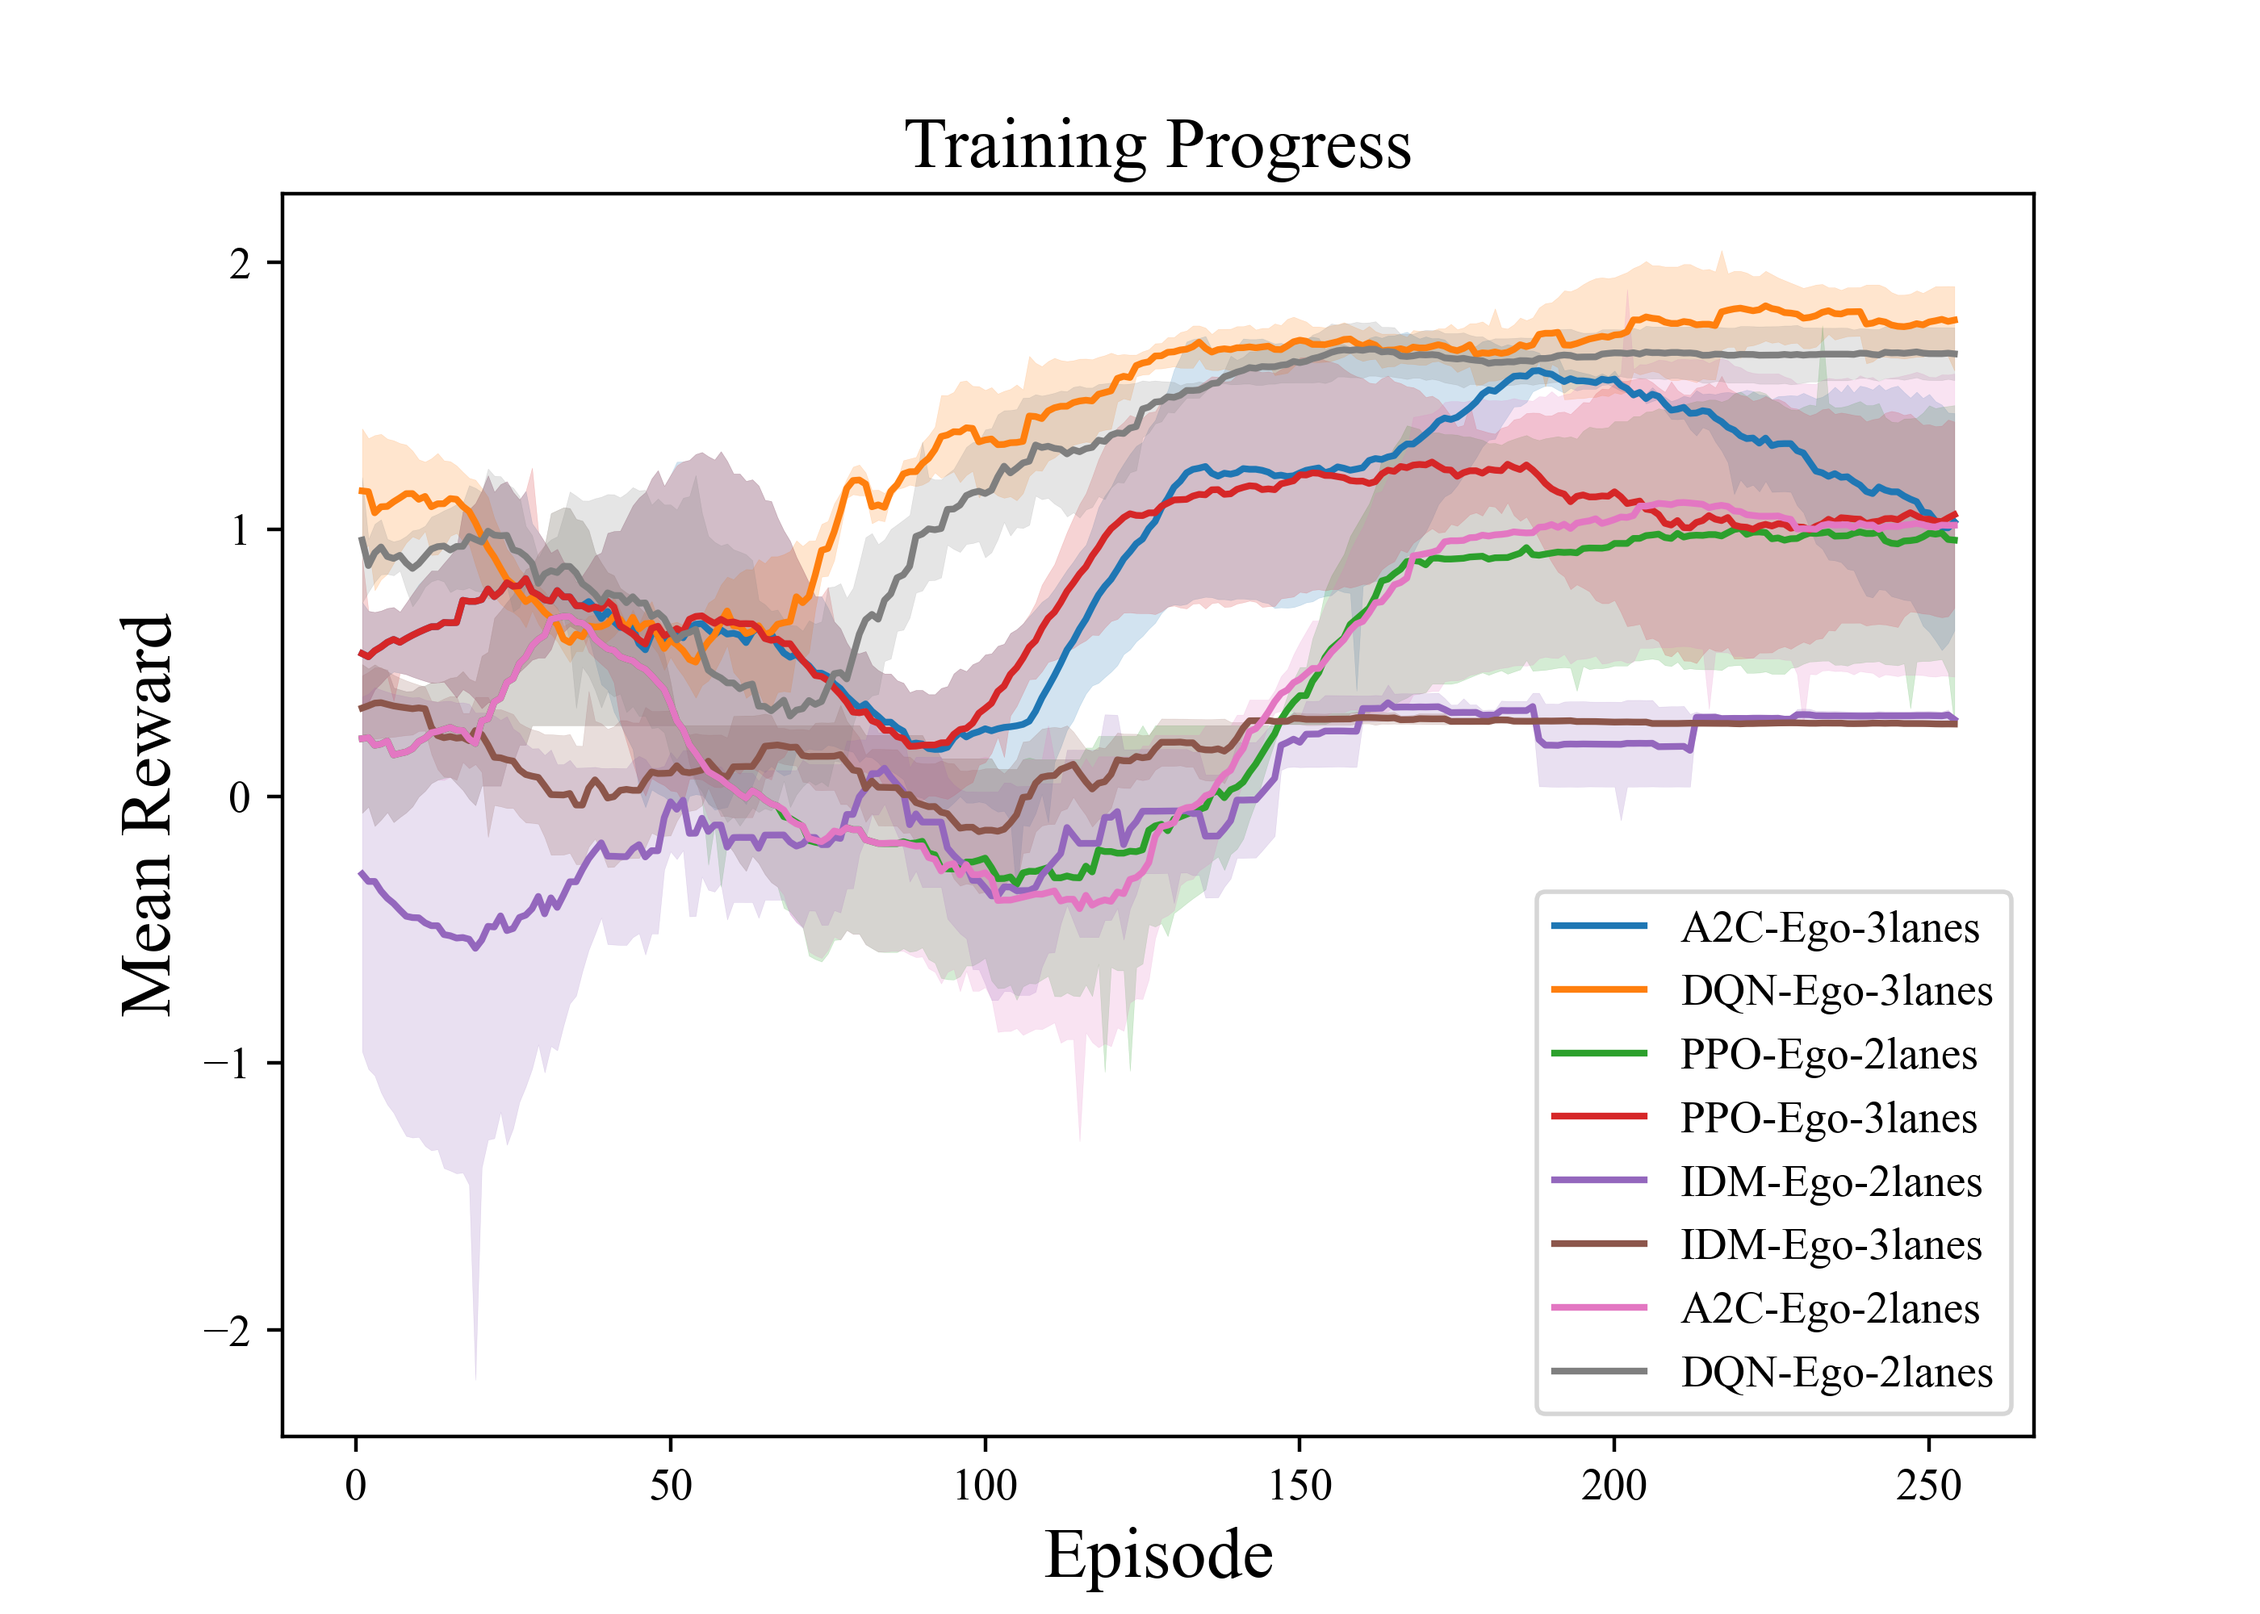
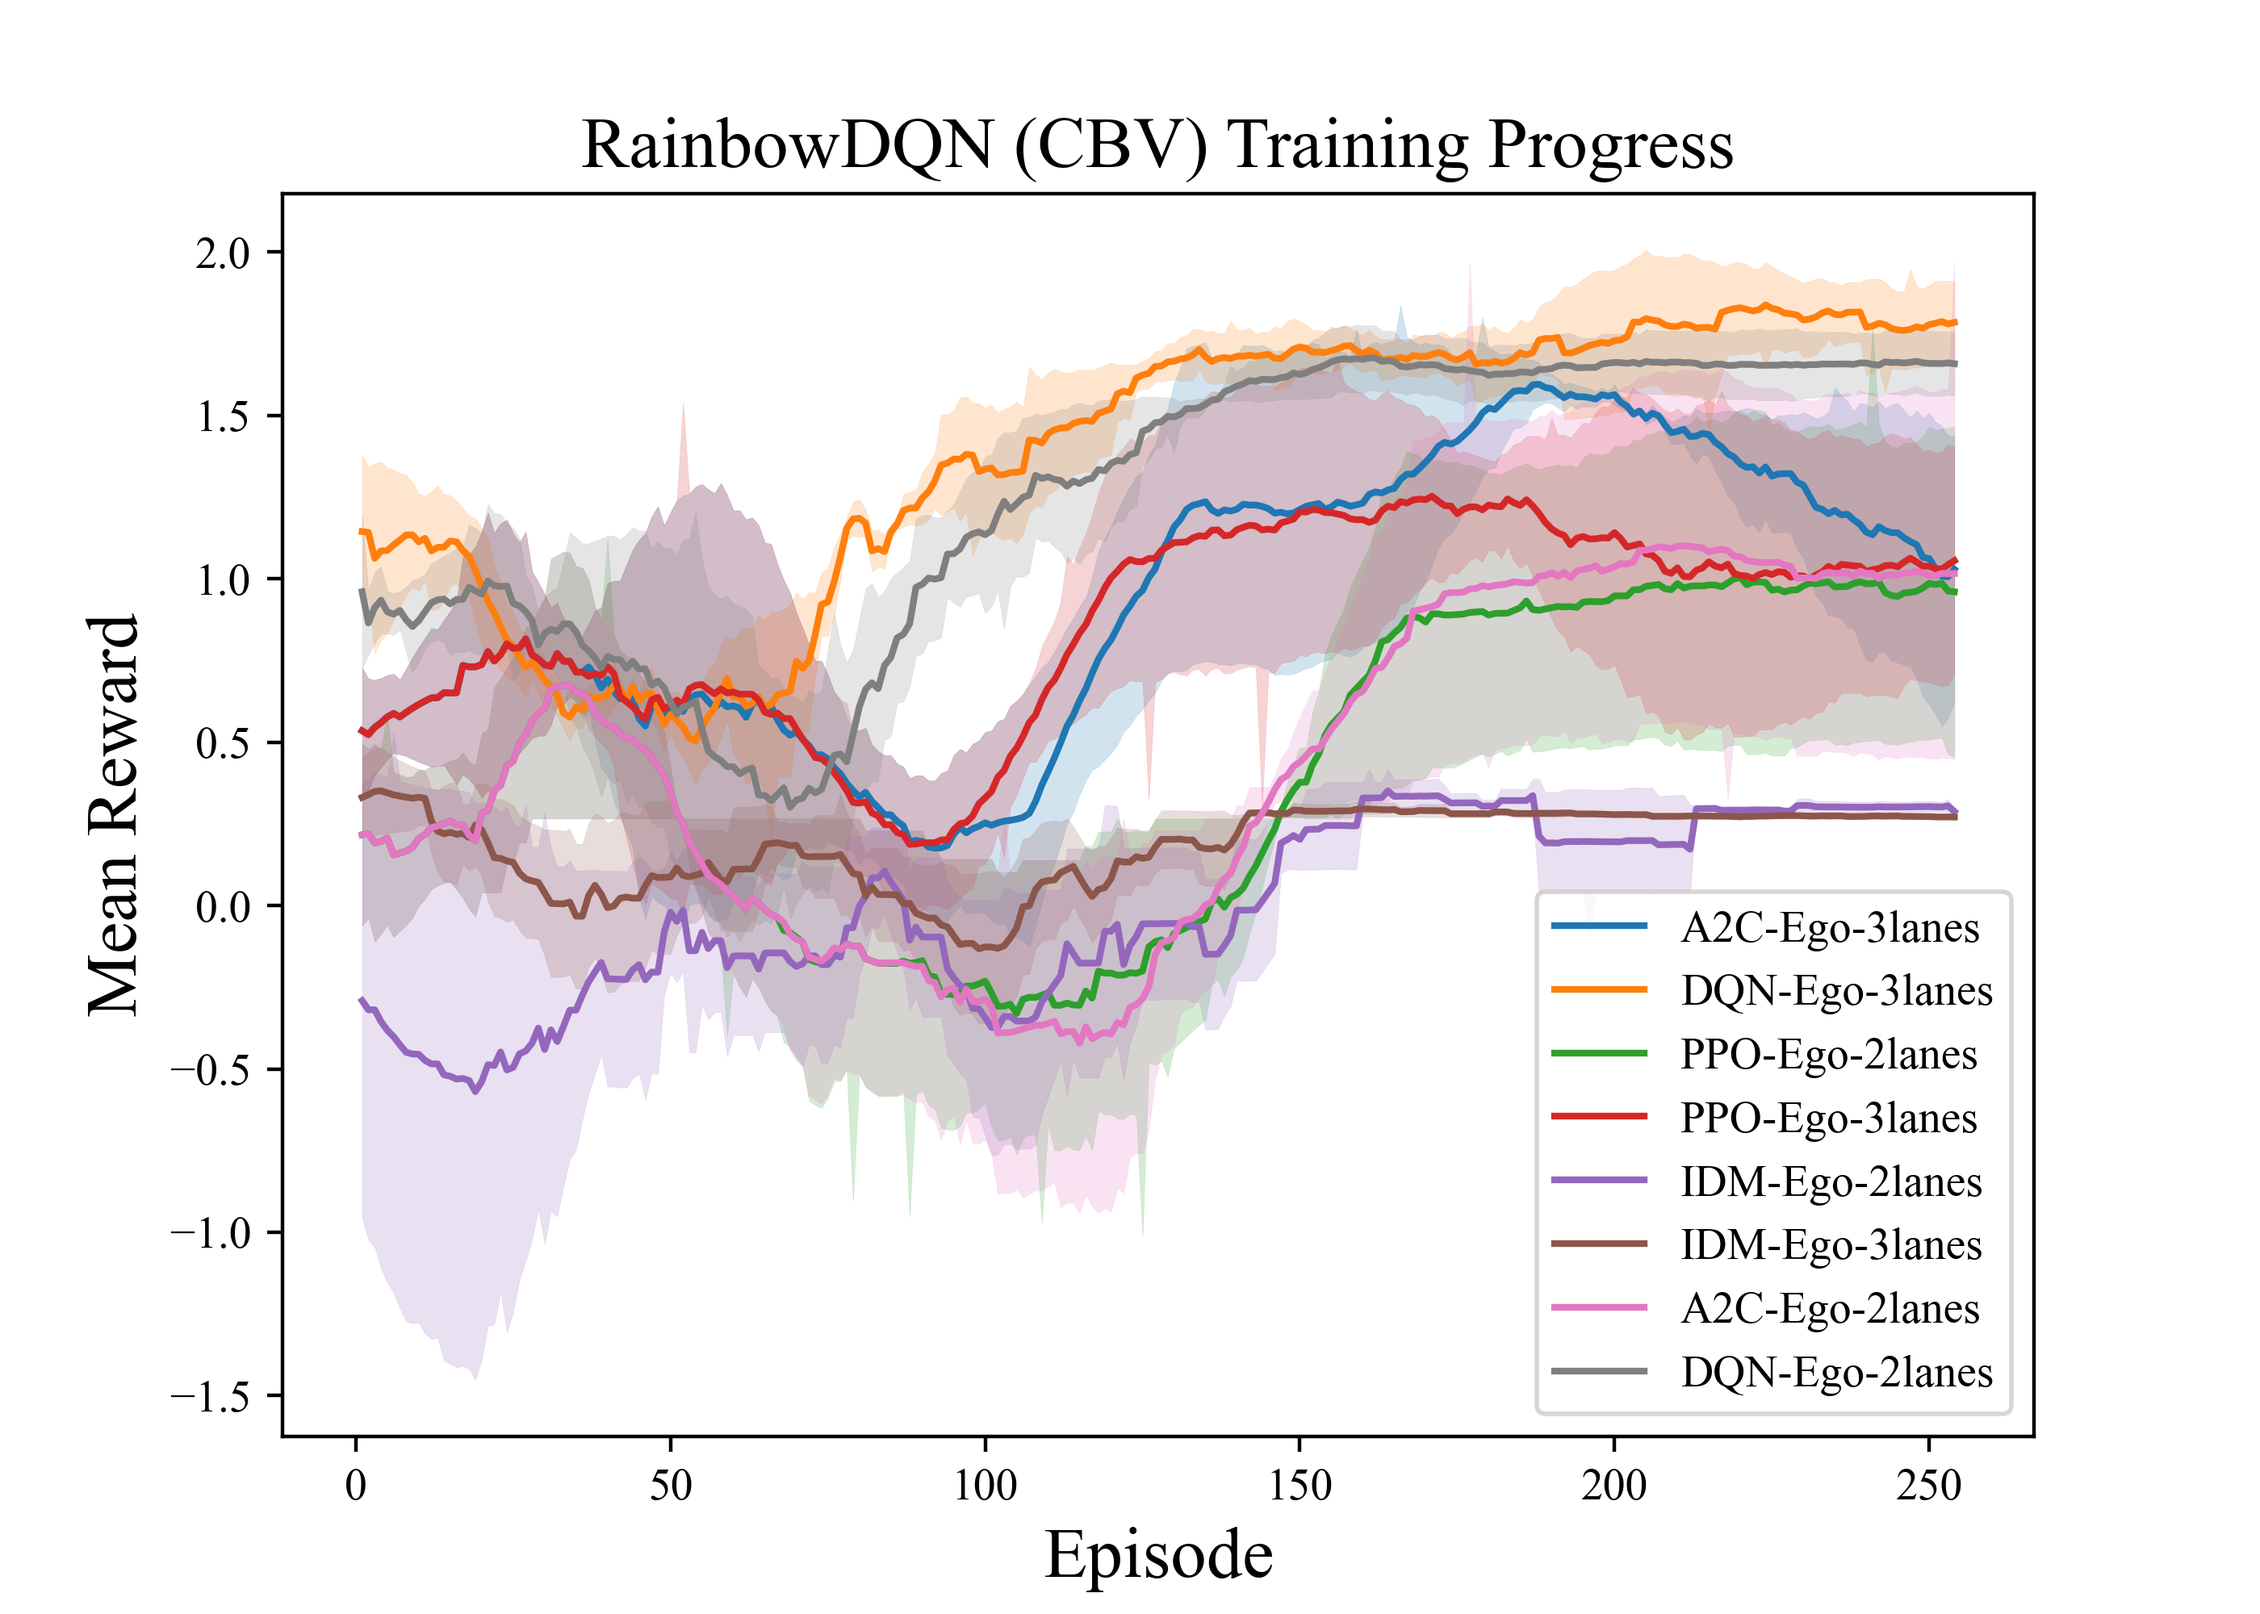
update the reward figure title

diff --git a/plot.py b/plot.py
@@ -80,7 +80,7 @@ def plot_data(datas, min_step_len, save_dir, tag):
             err_kws={"alpha": 0.2, "linewidth": 0.1}
         )
 
-    ax.set_title("Training Progress", fontname="Times New Roman", fontsize=16)
+    ax.set_title("RainbowDQN (CBV) Training Progress", fontname="Times New Roman", fontsize=16)
     ax.set_xlabel("Episode", fontname="Times New Roman", fontsize=16)
     ax.set_ylabel(str(tag), fontname="Times New Roman", fontsize=16)
     plt.legend(loc="lower right")
